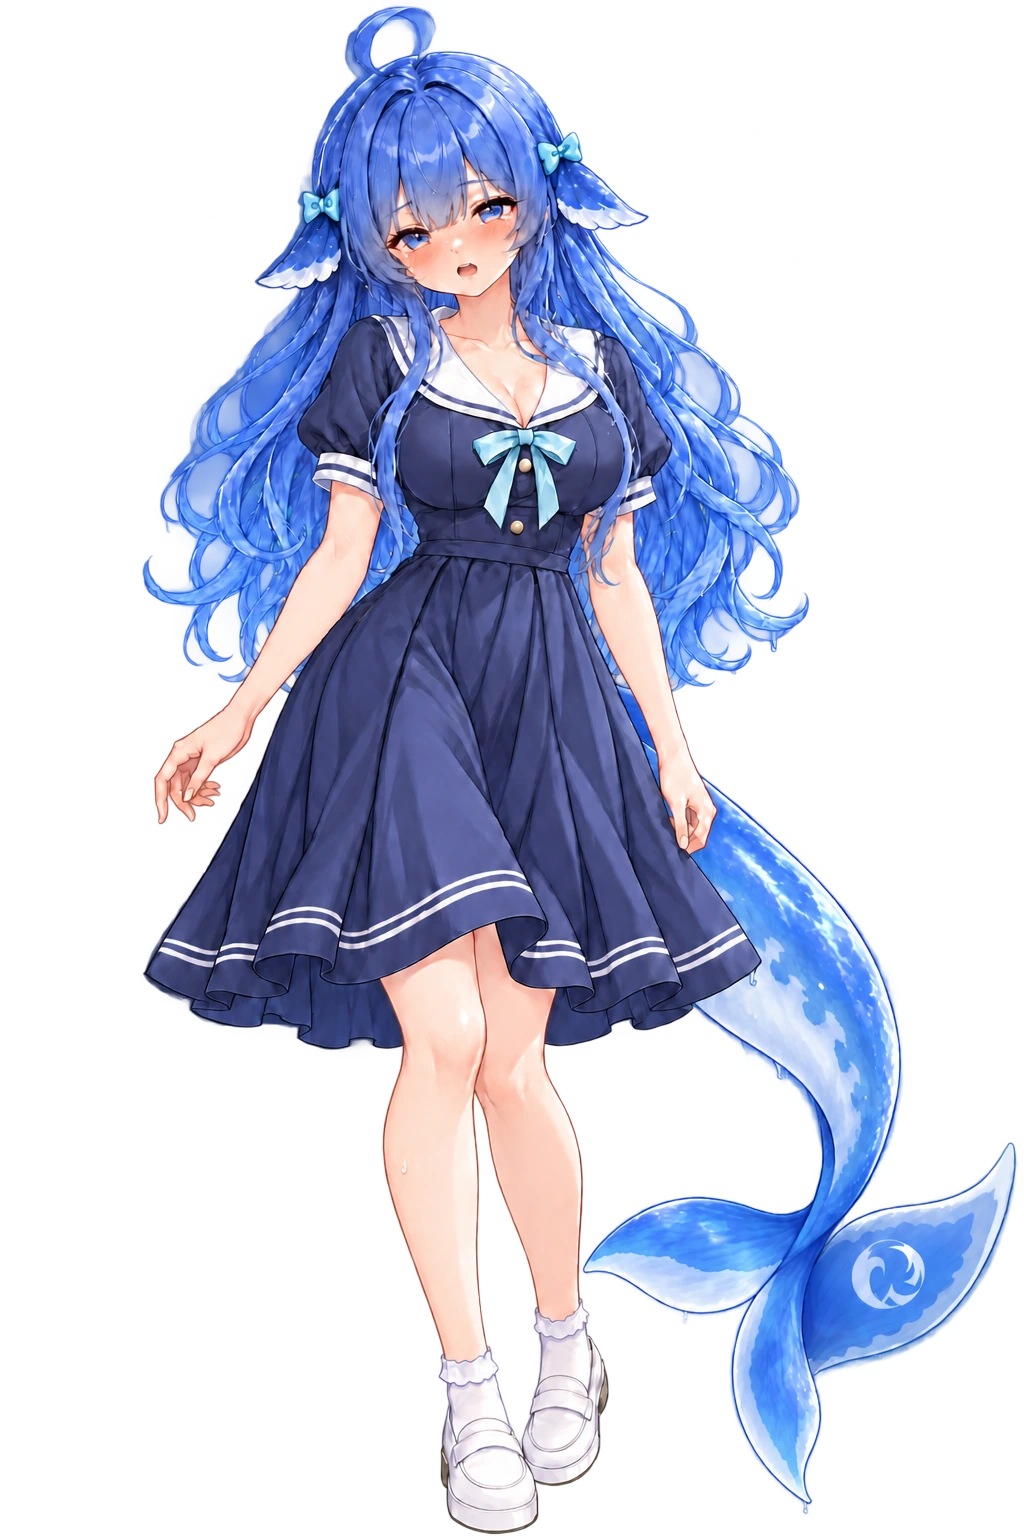
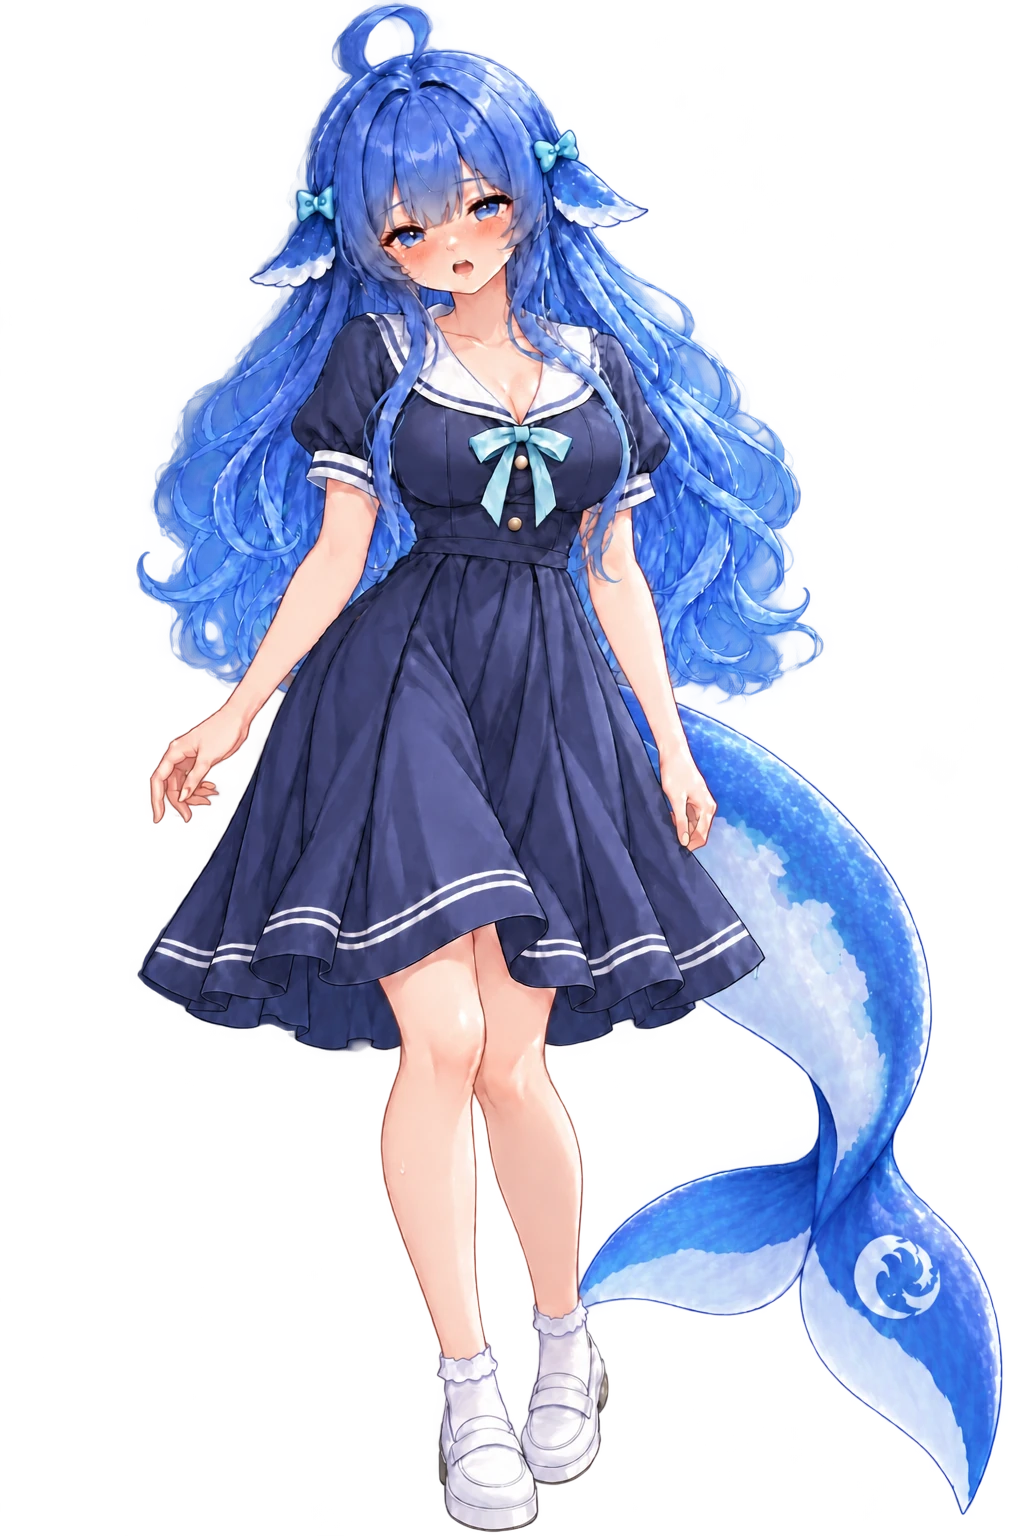
art: L11 救援后红眼立绘尾巴照 L01 对齐（Image2.5 sunburst）

diff --git a/docs/collab/work-ledger/playtest-ledger-20261018.md b/docs/collab/work-ledger/playtest-ledger-20261018.md
@@ -69,3 +69,6 @@
 - 11:27 用户发来自己改好的 L03 害羞（白底 1254x1254），要求换进游戏。处理：抠图，去掉发丝间残留的白色，按旧版人物高度放大约 1.25 倍放进 1024x1536 画布。原稿入库 docs/collab/playtest/。
 - 11:45 用户发来自己改好的 L05 生气（透明底），已原样换入。
 - 12:20 用户发来自己改好的 L07 柔和，已换入。用户规定：以后发图默认就是换图，不必重做单文件试玩版。
+
+## L11 尾巴对齐 L01（10-18 13:21）
+- 用户给 L11 救援后红眼稿，要求 Image2.5 sunburst 照 L01 对齐尾巴。两版取第 2 版（尾鳍位置、扇贝分界最贴 L01）。人物未动，透明底。
